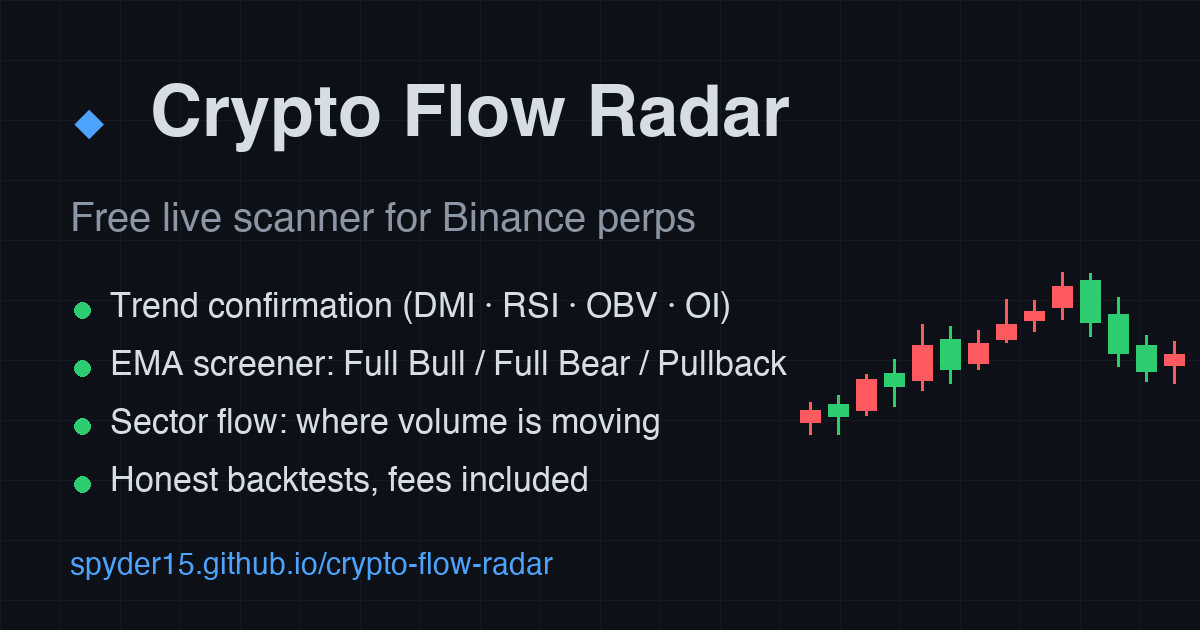
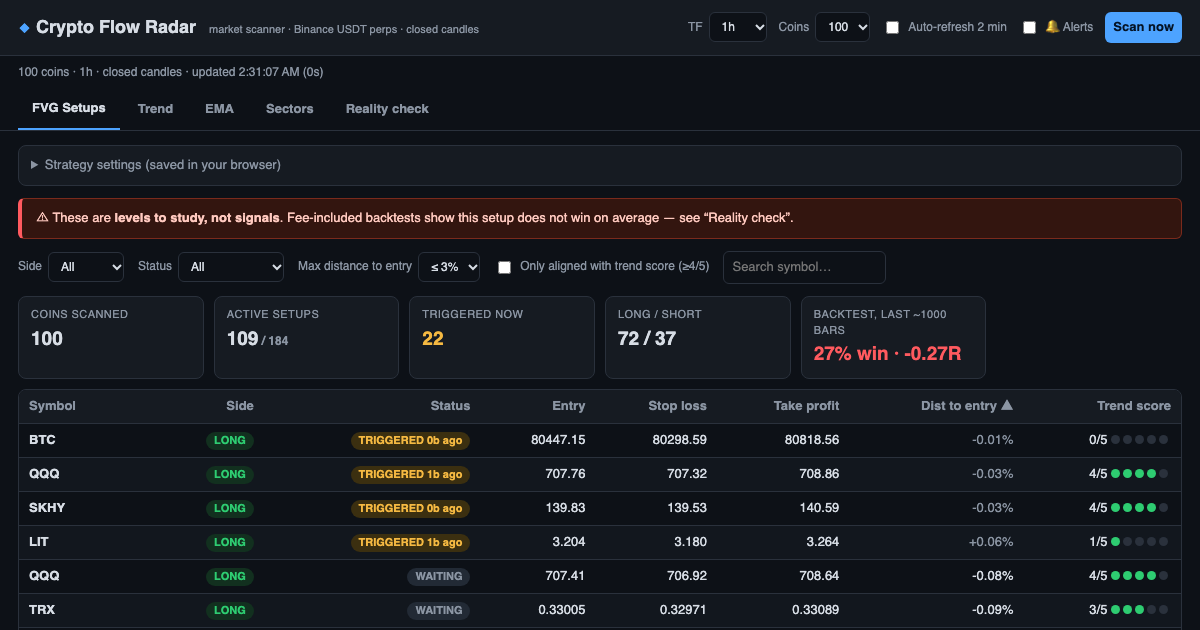
Use landing page screenshot as social preview image

diff --git a/smc-screener/index.html b/smc-screener/index.html
@@ -9,11 +9,11 @@
 <meta property="og:title" content="Crypto Flow Radar">
 <meta property="og:description" content="Free live scanner for Binance perps: trend, EMA setups and sector flow.">
 <meta property="og:url" content="https://spyder15.github.io/crypto-flow-radar/">
-<meta property="og:image" content="https://spyder15.github.io/crypto-flow-radar/og.png">
+<meta property="og:image" content="https://spyder15.github.io/crypto-flow-radar/og.png?v=2">
 <meta name="twitter:card" content="summary_large_image">
 <meta name="twitter:title" content="Crypto Flow Radar">
 <meta name="twitter:description" content="Free live scanner for Binance perps: trend, EMA setups and sector flow.">
-<meta name="twitter:image" content="https://spyder15.github.io/crypto-flow-radar/og.png">
+<meta name="twitter:image" content="https://spyder15.github.io/crypto-flow-radar/og.png?v=2">
 <link rel="stylesheet" href="style.css">
 </head>
 <body>
